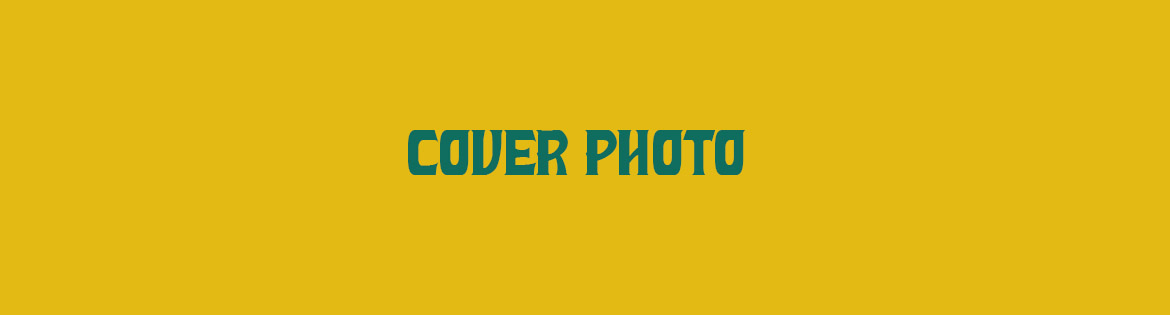
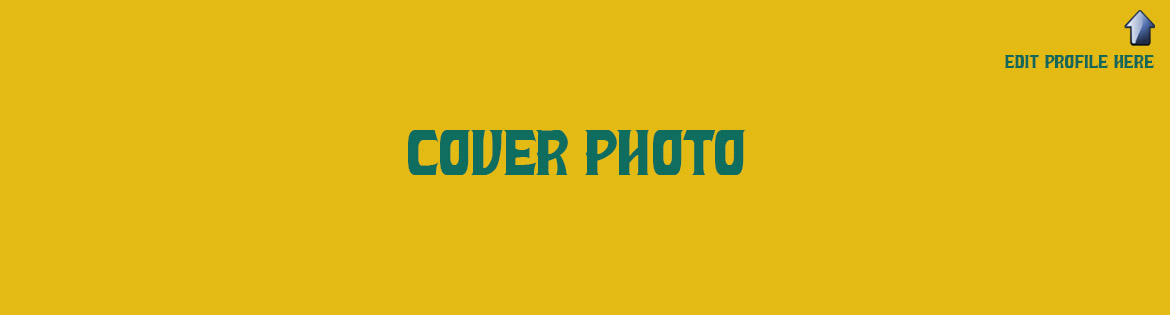
edit cover photo

Changed region(s): [[0.8615, 0.1714, 0.9846, 0.2286], [0.9538, 0.0286, 0.9846, 0.1429]]

diff --git a/public/assets/application-d3d30e25d8a1374d95fefd928227309f.css b/public/assets/application-d3d30e25d8a1374d95fefd928227309f.css
@@ -8129,5 +8129,5 @@ input.search-query {
 }
 
 .text-edit-profile {
-	line-height: 38px !important;
+	line-height: 40px !important;
 }

diff --git a/public/assets/application.css b/public/assets/application.css
@@ -8129,5 +8129,5 @@ input.search-query {
 }
 
 .text-edit-profile {
-	line-height: 38px !important;
+	line-height: 40px !important;
 }

diff --git a/app/assets/stylesheets/custom/custom.css b/app/assets/stylesheets/custom/custom.css
@@ -111,5 +111,5 @@
 }
 
 .text-edit-profile {
-	line-height: 38px !important;
+	line-height: 40px !important;
 }
